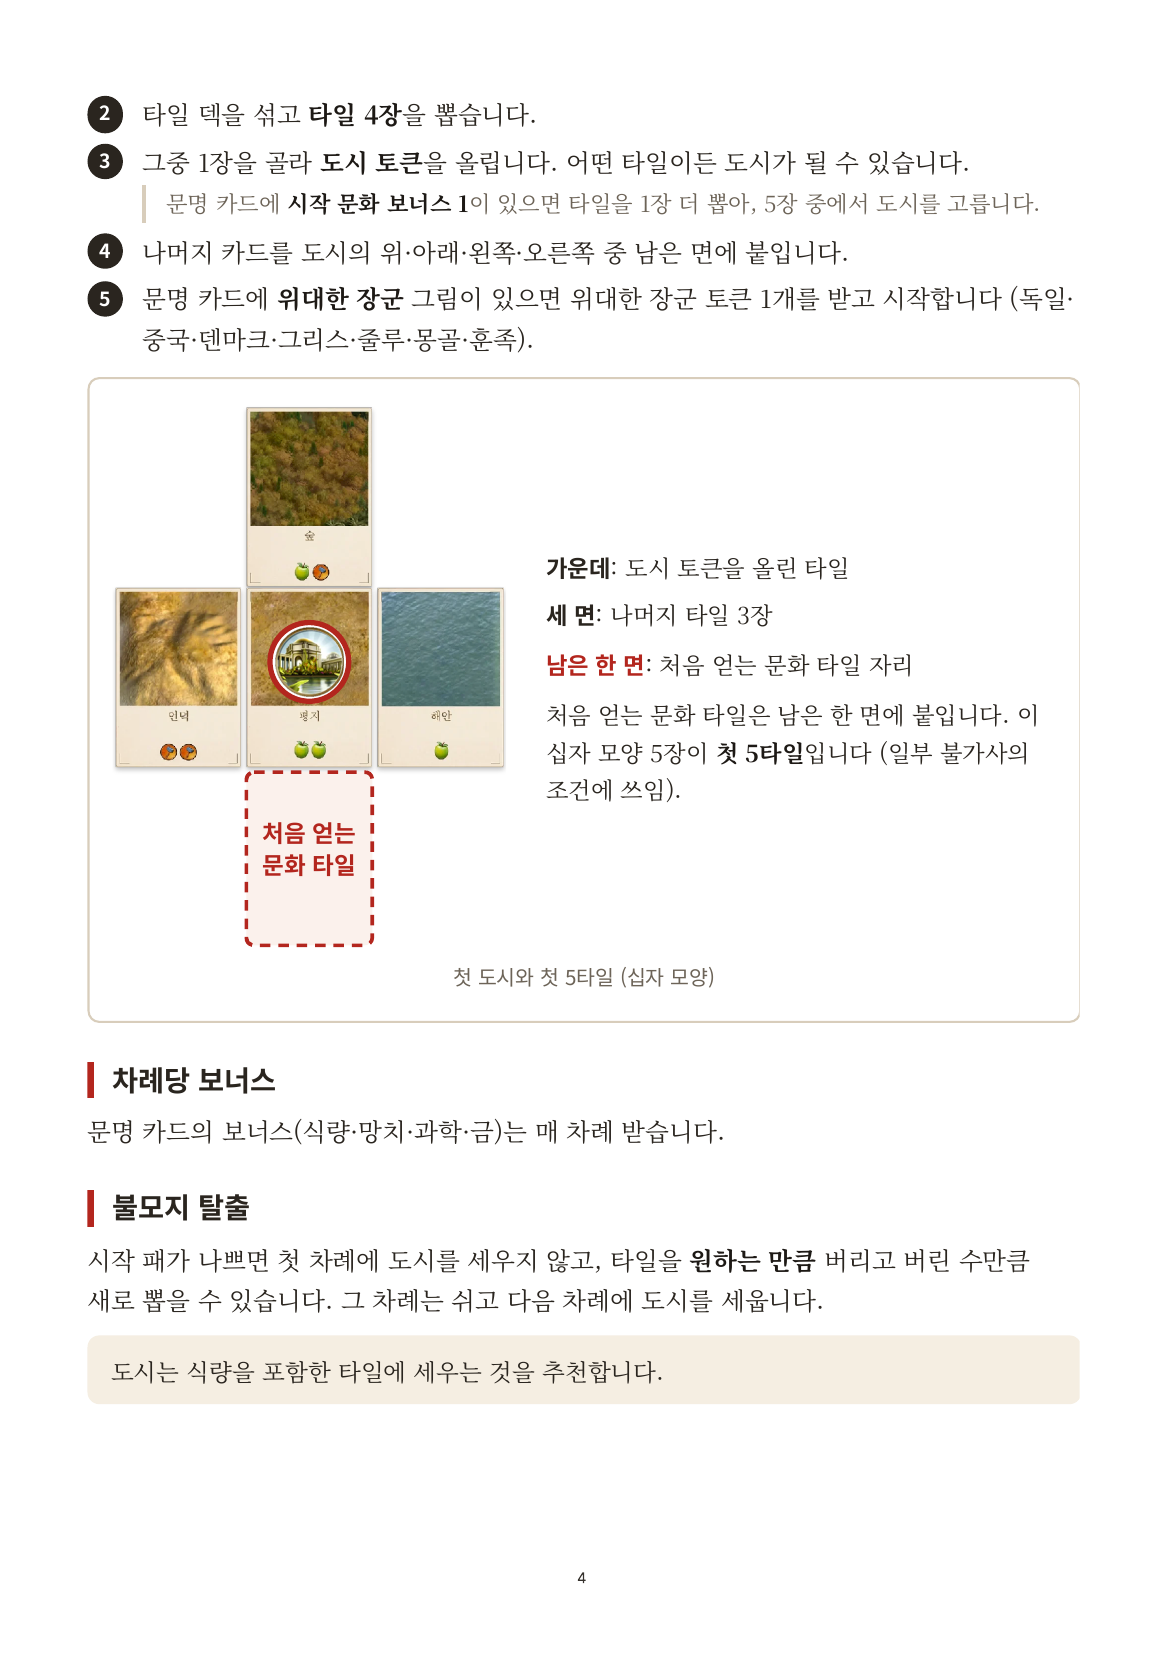
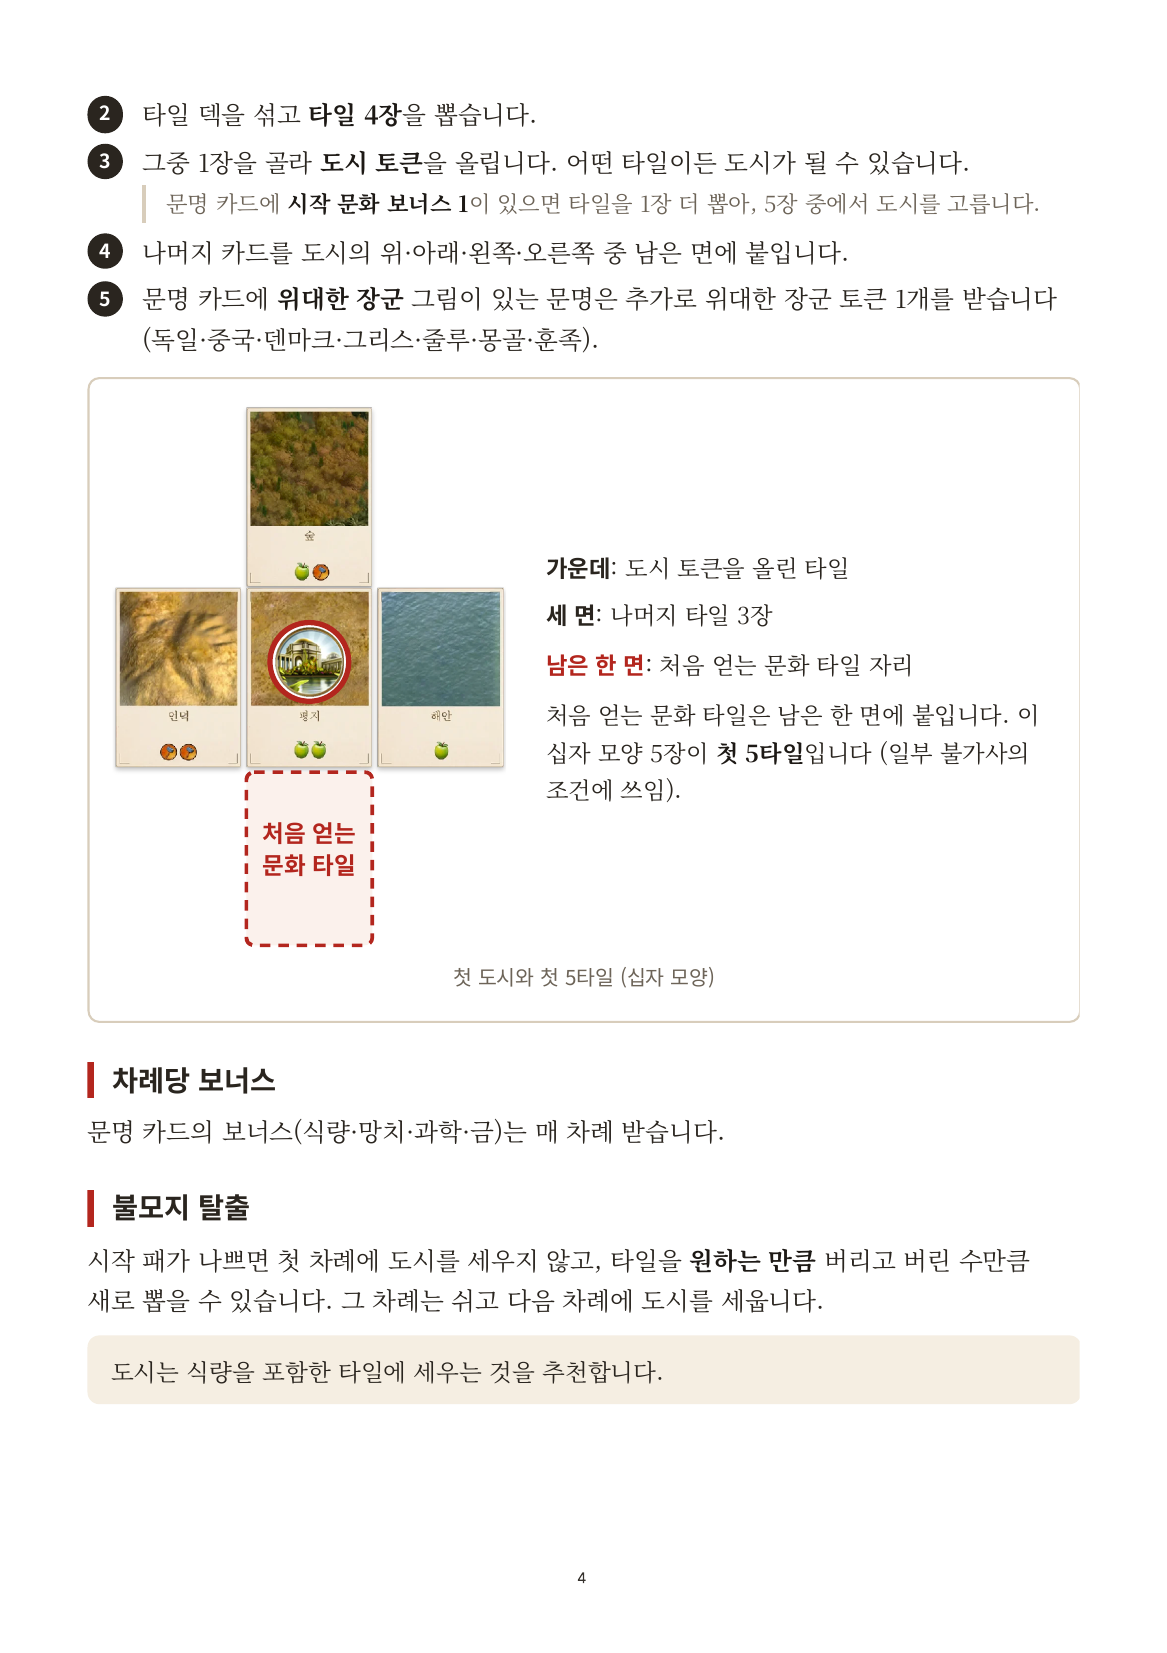
규칙서 게임 준비 5단계: 위대한 장군 그림이 있는 문명은 추가로 장군 1개
Claude-Session: https://claude.ai/code/session_01LEwiRiXRJPjckZxHM1aEbm

Changed region(s): [[0.1234, 0.1543, 0.9254, 0.216]]

diff --git a/docs/rulebook/source/part1.html b/docs/rulebook/source/part1.html
@@ -74,7 +74,7 @@
     <li>타일 덱을 섞고 <b>타일 4장</b>을 뽑습니다.</li>
     <li>그중 1장을 골라 <b>도시 토큰</b>을 올립니다. 어떤 타일이든 도시가 될 수 있습니다.<span class="subnote">문명 카드에 <b>시작 문화 보너스 1</b>이 있으면 타일을 1장 더 뽑아, 5장 중에서 도시를 고릅니다.</span></li>
     <li>나머지 카드를 도시의 위·아래·왼쪽·오른쪽 중 남은 면에 붙입니다.</li>
-    <li>문명 카드에 <b>위대한 장군</b> 그림이 있으면 위대한 장군 토큰 1개를 받고 시작합니다 (독일·중국·덴마크·그리스·줄루·몽골·훈족).</li>
+    <li>문명 카드에 <b>위대한 장군</b> 그림이 있는 문명은 추가로 위대한 장군 토큰 1개를 받습니다 (독일·중국·덴마크·그리스·줄루·몽골·훈족).</li>
   </ol>
 
   <figure class="fig-frame">
